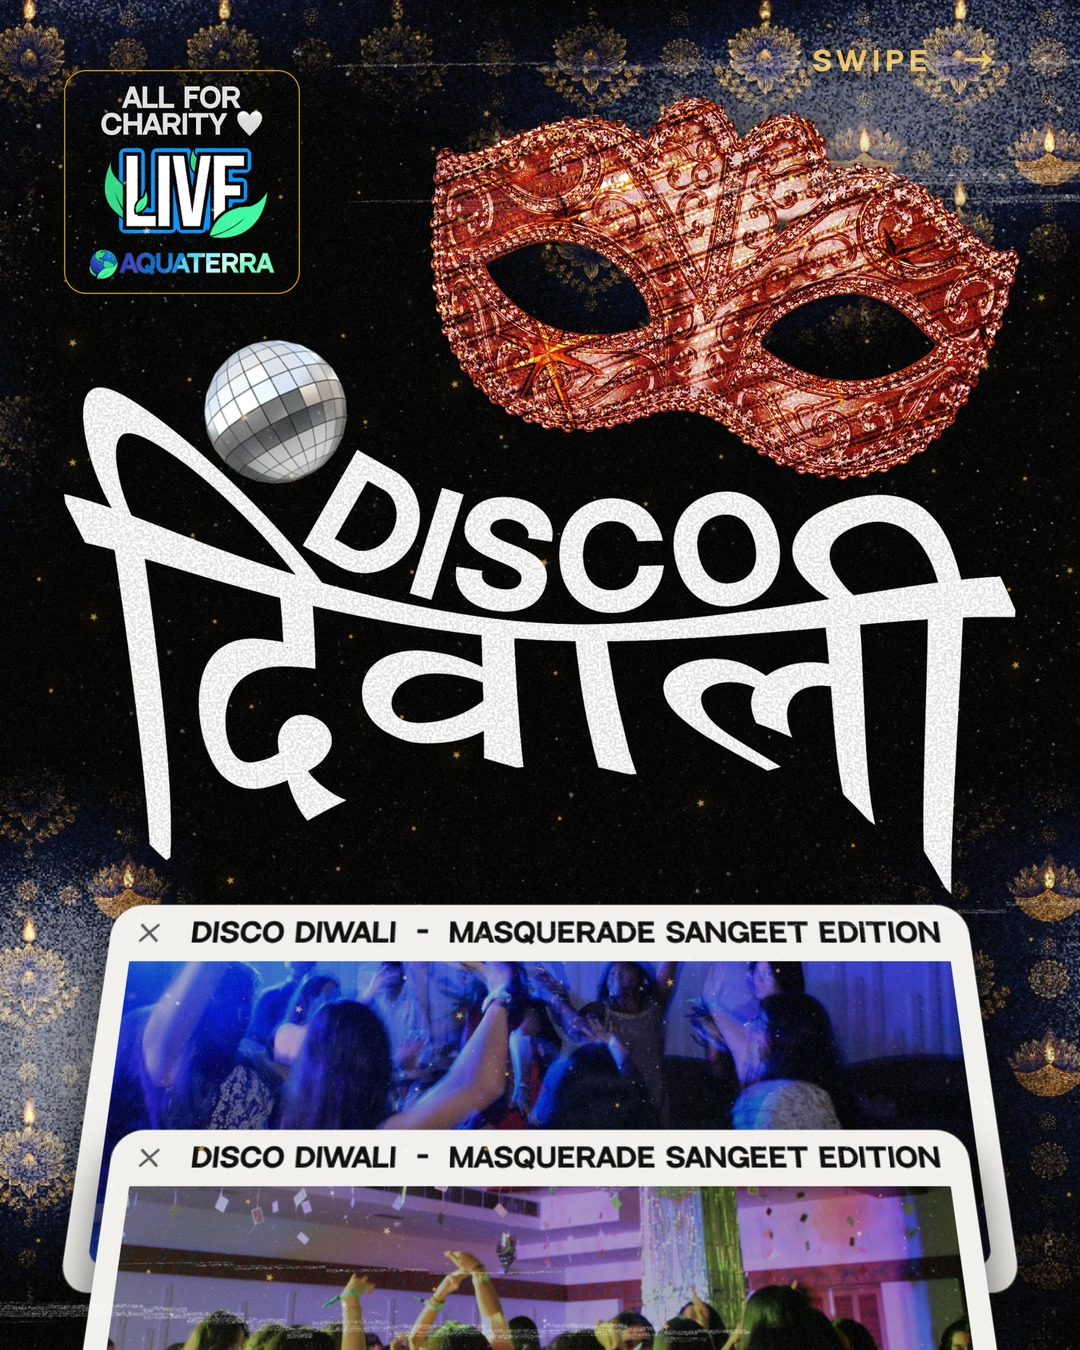
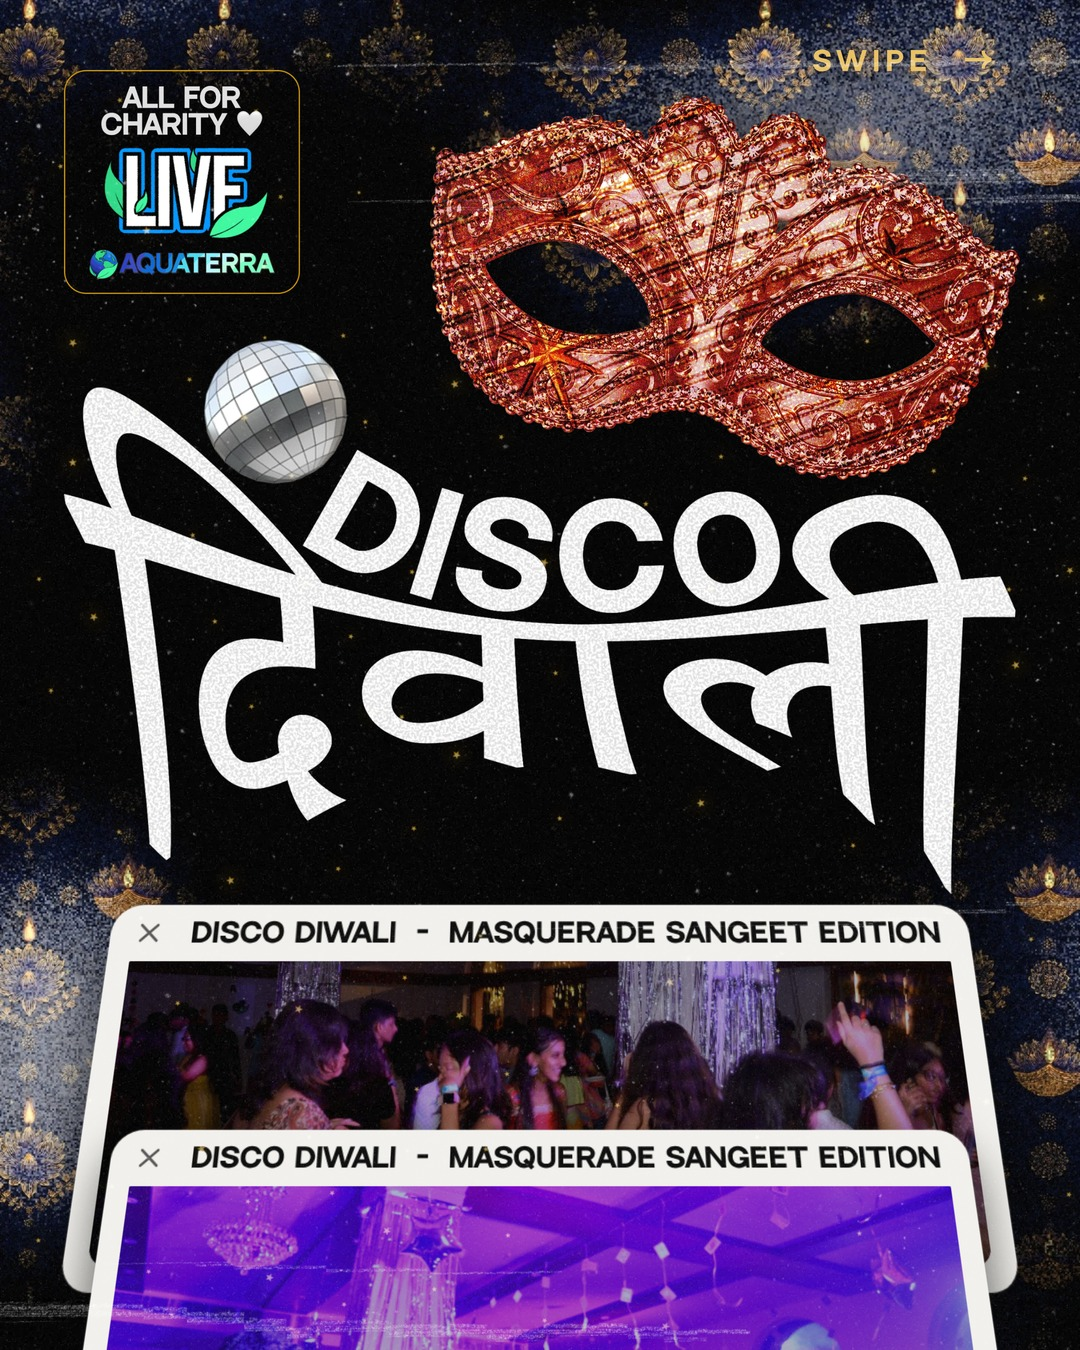
Disco Diwali window carousel: new hall photos on slides 1 and 2
Claude-Session: https://claude.ai/code/session_01HW9NLUoNVqWbubcRN9wD4m

Changed region(s): [[0.0611, 0.6844, 0.9167, 1.0]]

diff --git a/scratchpad/dd_window_carousel.py b/scratchpad/dd_window_carousel.py
@@ -40,6 +40,8 @@ BAR_H, PAD = 58, 22
 # alpha bounding boxes of the assets (measured): the content origin inside each png, so a poster coordinate is the VISIBLE edge
 ASSET_BBOX = {"title_lockup.png": (265, 315, 1983, 1315), "mask_copper.png": (157, 211, 1563, 1135)}
 
+PHOTO3 = os.path.join(ROOT, "engine", "assets", "img", "events", "disco-diwali-hall-2026-10-14")
+NEW = lambda name: os.path.join(PHOTO3, name)
 BRIEF = dict(edition="Masquerade Sangeet Edition", status="Ticket sales open soon")
 
 
@@ -133,8 +135,8 @@ def slide1():
     s.mask(430, 96, 590)                                  # copper mask, top right, visible outline 590 wide
     s.badge(64, 70, 236)
     s.title(64, 340, 952)
-    s.window("w1", 115, 905, 850, 360, s.photo("07", "50% 62%"), z=10, tilt=18)
-    s.window("w2", 115, 1130, 850, 360, s.photo("05", "50% 40%"), z=11, tilt=18)
+    s.window("w1", 115, 905, 850, 360, s.photo(NEW("01_dancers-silver-pillar-purple.jpg"), "50% 62%"), z=10, tilt=18)
+    s.window("w2", 115, 1130, 850, 360, s.photo(NEW("04_pink-ceiling-chandelier-phone.jpg"), "50% 62%"), z=11, tilt=18)
     s.text("cue", "SWIPE&nbsp;&nbsp;&rarr;", W - 64 - 110, 62, 220, 34,
            f"font-weight:700;font-size:26px;letter-spacing:.24em;color:{GL};text-shadow:0 2px 12px rgba(0,0,0,.8)")
     return s
@@ -145,13 +147,10 @@ def slide2():
     s.ground()
     s.index_tag()
     ys = (150, 530, 910)
-    focus = ("50% 45%", "50% 58%", "50% 62%")
-    for i, (y, ph) in enumerate(zip(ys, ("05", "07", "10"))):
-        s.window(f"w{i + 1}", 115, y, 850, 410 if i < 2 else 392, s.photo(ph, focus[i], bright=1.0), z=10 + i, tilt=18)
+    focus = ("50% 62%", "50% 62%", "50% 50%")
+    for i, (y, ph) in enumerate(zip(ys, (NEW("02_crowd-teal-kurta-purple.jpg"), NEW("06_blue-room-crowd-faces.jpg"), NEW("05_boys-crowd-green-light.jpg")))):
+        s.window(f"w{i + 1}", 115, y, 850, 410 if i < 2 else 392, s.photo(ph, focus[i], bright=(1.7, 1.0, 1.0)[i]), z=10 + i, tilt=18)
     return s
-
-
-PHOTO3 = os.path.join(ROOT, "engine", "assets", "img", "events", "disco-diwali-hall-2026-10-14")
 
 
 def slide3():
